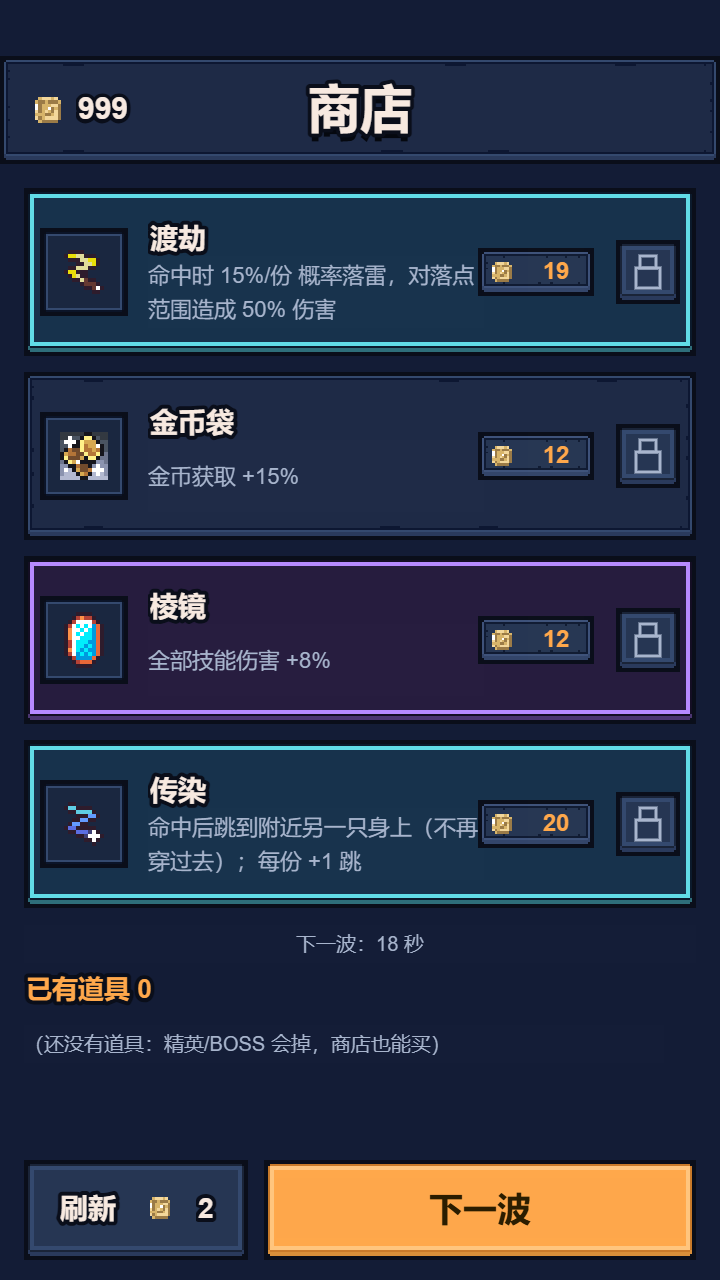
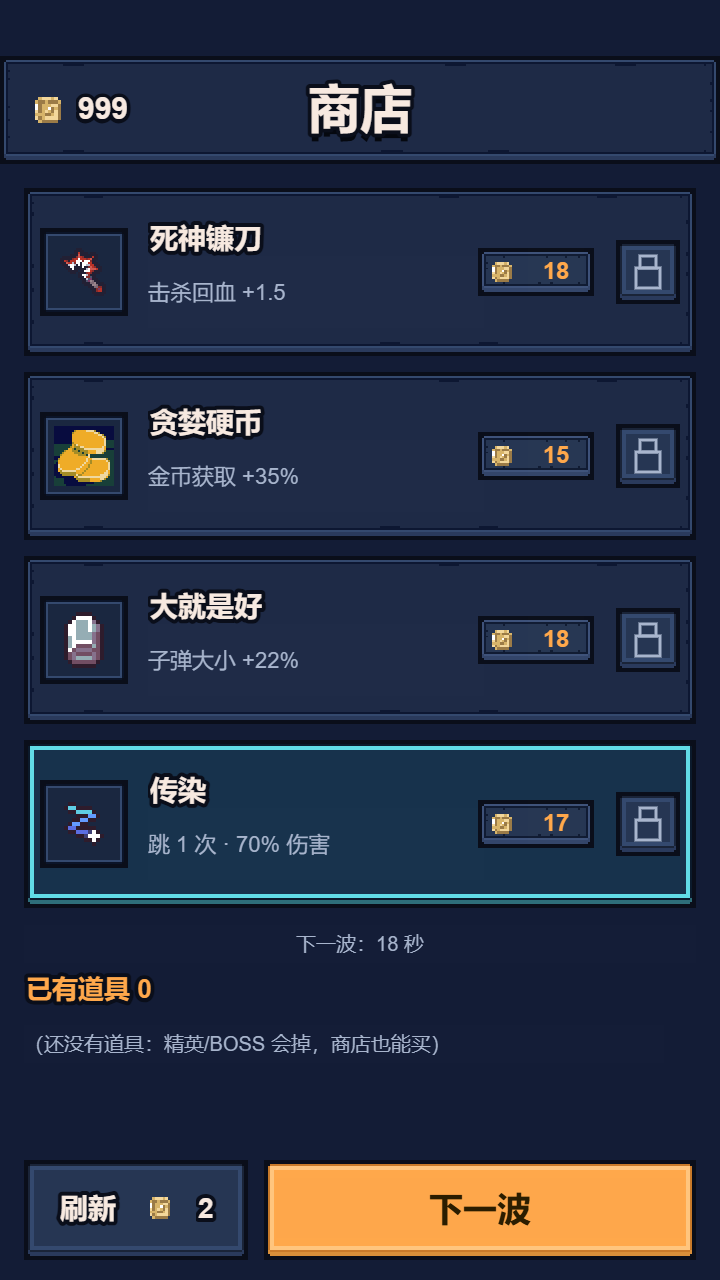
商店行简化成一句话（黑科技显示数值短句）；升级卡 meta 紧贴数值行；交付文档与截图刷新 v6

diff --git a/cocos/assets/scripts/GameRoot.ts b/cocos/assets/scripts/GameRoot.ts
@@ -637,7 +637,8 @@ private installReturn: 'levelup' | 'pause' | 'shop' | 'nextwave' = 'levelup';
       // 商店里道具直接显示**具体数值**（决策要看数）；黑科技仍显示人话描述
       const sub = s.kind === 'item'
         ? (ITEMS[s.id] ? itemNumbers(ITEMS[s.id], s.id) || ITEMS[s.id].desc : '')
-        : s.kind === 'module' ? (MODULES[s.id] ? MODULES[s.id].desc : '') : '';
+        // 用户 2026-10-30：商店也只留"一句话"——黑科技显示数值短句，不再显示长效果描述
+        : s.kind === 'module' ? (MODULE_NUMS[s.id] ?? (MODULES[s.id] ? MODULES[s.id].name : '')) : '';
       const icon = s.kind === 'item' ? ITEM_ICON[s.id]
         : s.kind === 'module' ? MODULE_ICON[s.id] : undefined;
       // M52：稀有度（1 普通 / 2 高级）+ 已持有数量（堆叠提示）

diff --git a/cocos/assets/scripts/ui/Modals.ts b/cocos/assets/scripts/ui/Modals.ts
@@ -123,9 +123,10 @@ export function buildLevelUp(parent: Node, lv: number, cards: CardData[],
         { size: 11, color: COL.dim, align: 'left', width: txtW, h: 18 });
     }
 
-    // 叠加 / 上限状态（10px：属于元数据，不承担关键说明）
+    // 叠加 / 上限状态：紧贴数值行下方（之前贴在卡片底部，中间留一大块空白）
     if (c.meta) {
-      text(card, txtX, -CH / 2 + 16, c.meta, { size: 10, color: COL.dim, align: 'left', width: txtW, h: 16 });
+      const metaY = hasDesc ? CH / 2 - 108 : numsY - 30;
+      text(card, txtX, metaY, c.meta, { size: 10, color: COL.dim, align: 'left', width: txtW, h: 16 });
     }
 
     // 按下反馈：整卡压暗一档 + 点击

diff --git a/cocos/assets/scripts/core/BuildTag.ts b/cocos/assets/scripts/core/BuildTag.ts
@@ -1,2 +1,2 @@
 /** 构建标记：每次重要改动更新这个字符串，设置页底部会显示，用来确认真机/开发者工具跑的是哪一版 */
-export const BUILD_TAG = '2026-10-30 13:12 卡片一句话 v5';
+export const BUILD_TAG = '2026-10-30 13:14 商店一句话 v6';
